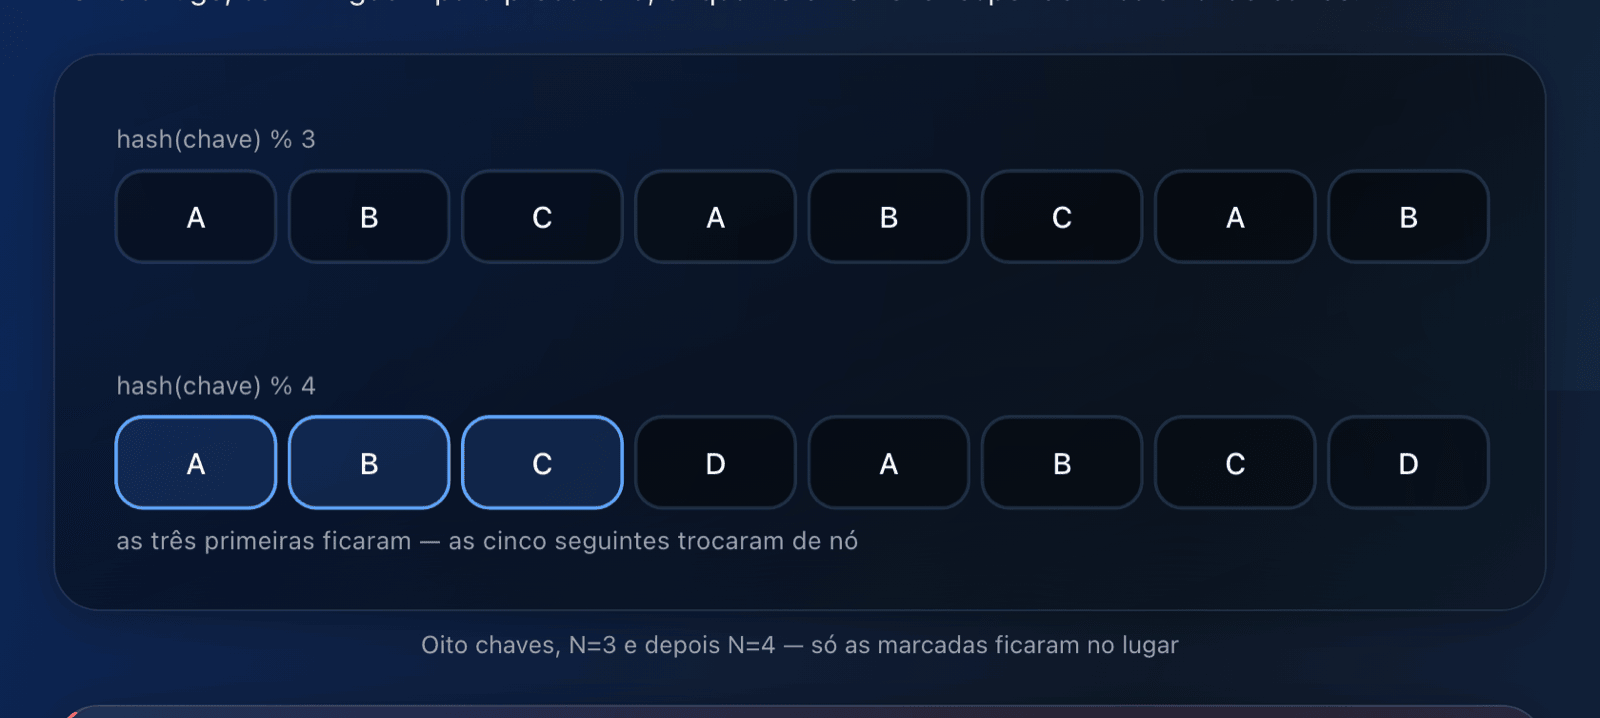
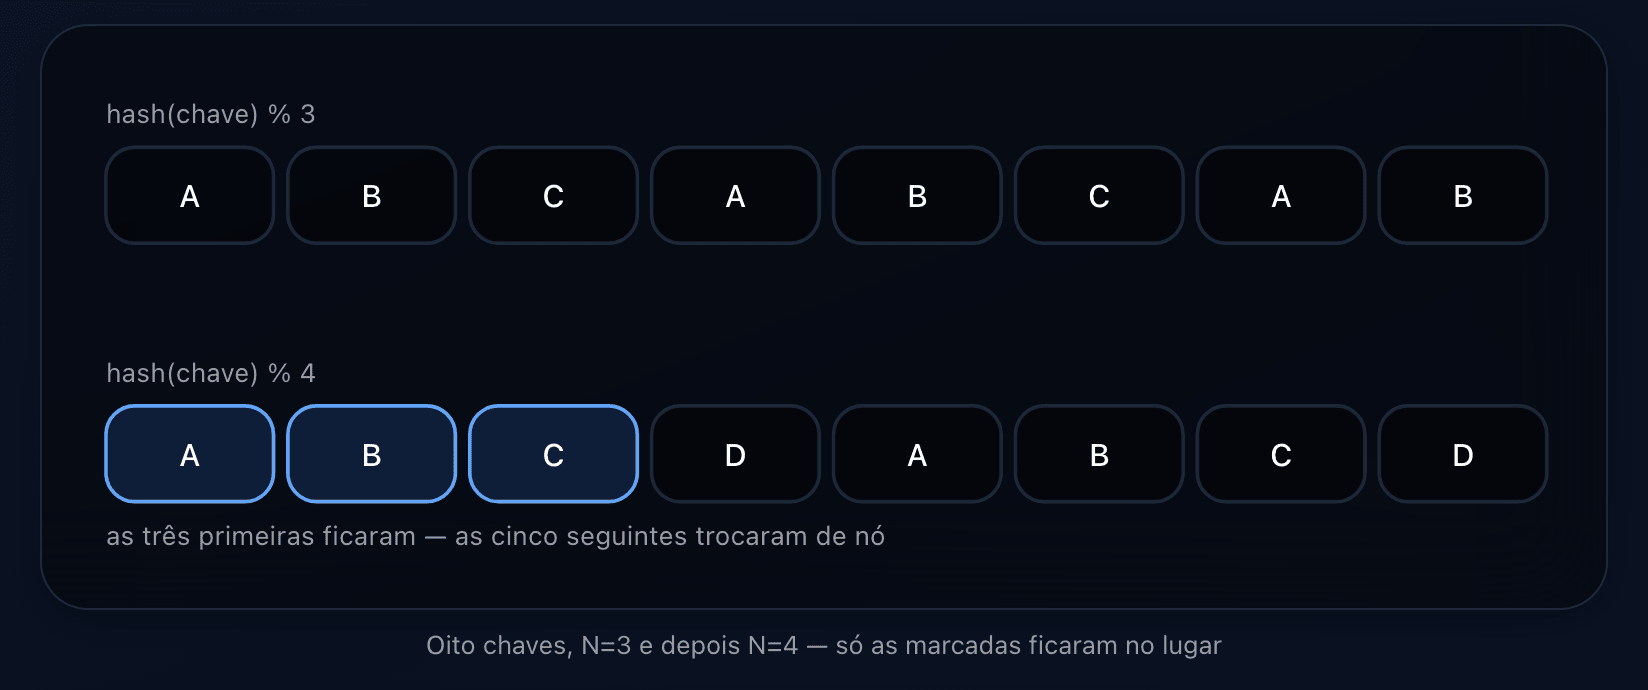
docs: retake the screenshots on the current design

diff --git a/docs/README.md b/docs/README.md
@@ -42,5 +42,3 @@ The rules Claude follows live at the root: [SKILL.md](../SKILL.md) for teaching,
     </td>
   </tr>
 </table>
-
-These screenshots predate the current page background.
